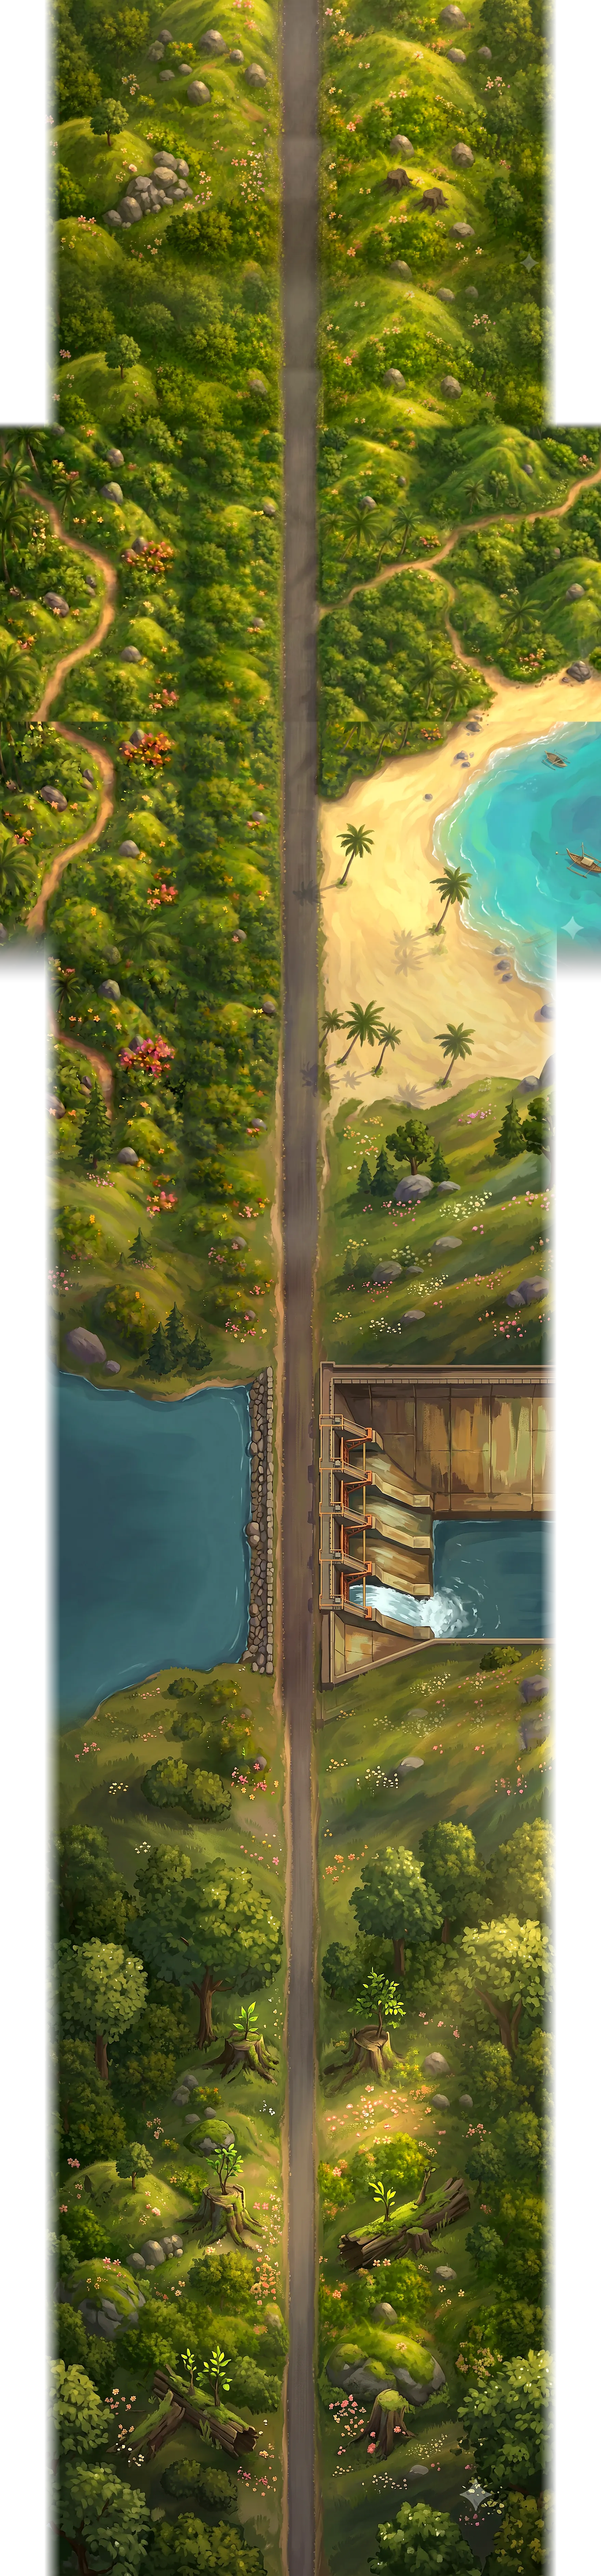
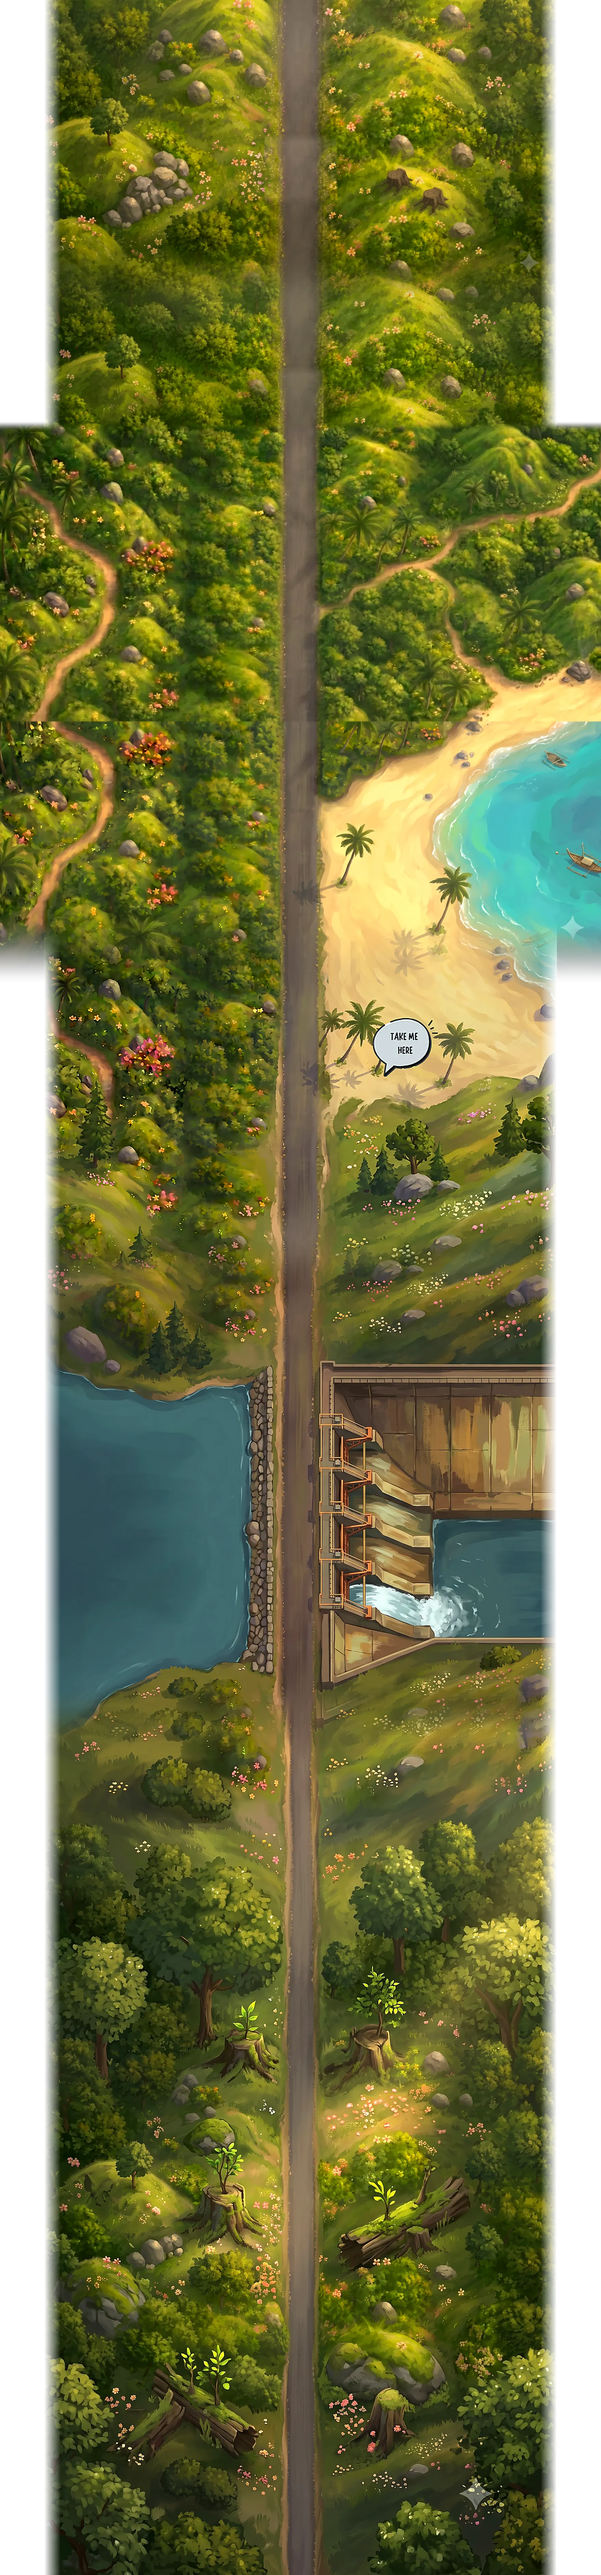
Make the "Take me here" beach callout a real Google Maps link
The speech-bubble callout (drawn into beach-hills.png in Canva) now
opens Google Maps to the Vizag venue when tapped. Since the ribbon is
one continuously-scaled, road-centered image rather than fixed page
content, the tap zone can't just be a plain CSS-positioned <a> - it
has to travel through the same per-row scale and road-centering
transform the art itself goes through.

build-ribbon.py gained a "link" manifest field (native pixel box +
URL) and exports the resolved ribbon-space box into ribbon.json,
computed from each segment's own pre-render native road-centre track
(not the post-render centres, which are already ~0 after the road is
straightened onto the frame midline - a wrong first attempt confirmed
this by producing an obviously-off box before the fix). road.js
renders the link as a plain child of #ribbon, positioned once in
measure() alongside the chunk images, so it pans/scales via the
ribbon's own transform at zero per-frame cost - the one deliberately
interactive island inside an otherwise pointer-events:none scene.

Verified via rebuild: frame width and road drift unchanged (1500px,
0.0px); beach-hills.png's own road detection unaffected by the
callout (131.4px both before and after, on two different Canva
exports with the bubble in different positions).

Claude-Session: https://claude.ai/code/session_01KqyBqW5nBLutqbKkXpUdiu

diff --git a/site/road.js b/site/road.js
@@ -390,6 +390,23 @@
     });
     el.ribbon.appendChild(frag);
     Promise.all(loads).then(function () { el.ribbon.style.visibility = ''; });
+
+    /* Tappable boxes painted into the art (e.g. a "take me here" callout) —
+     * a plain child of #ribbon, like the chunk images, so it pans and scales
+     * with the art via the ribbon's own translate3d at zero runtime cost. Its
+     * own position/size is set in measure() once native rows are scaled, the
+     * same way chunk tops/heights are. left/right in R.links are already
+     * road-relative (see build-ribbon.py) — offset from THIS element's own
+     * centre, not the ribbon's, so it needs its own centred positioning
+     * rather than reusing el.ribbon's left:50%. */
+    el.links = (R.links || []).map(function (l) {
+      var a = document.createElement('a');
+      a.className = 'map-link';
+      a.href = l.url; a.target = '_blank'; a.rel = 'noopener';
+      a.setAttribute('aria-label', 'Open in Google Maps');
+      el.ribbon.appendChild(a);
+      return { a: a, top: l.top, bottom: l.bottom, left: l.left, right: l.right };
+    });
   }
 
   function legCount() {
@@ -493,6 +510,19 @@
       c.top = t; c.hpx = b - t;
       c.img.style.top = t + 'px';
       c.img.style.height = c.hpx + 'px';
+    });
+
+    /* R.links' top/bottom are already ribbon rows (like a chunk's c.y) and
+     * left/right are already offsets from that link's own road centre (see
+     * build-ribbon.py) — both need the same *S.scale as everything else
+     * here, and the road-centre offset needs S.rw/2 added since el.ribbon's
+     * own left edge, not its centre, is (0,0) for an absolutely-positioned
+     * child of it. */
+    (el.links || []).forEach(function (l) {
+      l.a.style.top = Math.round(l.top * S.scale) + 'px';
+      l.a.style.height = Math.round((l.bottom - l.top) * S.scale) + 'px';
+      l.a.style.left = Math.round(S.rw / 2 + l.left * S.scale) + 'px';
+      l.a.style.width = Math.round((l.right - l.left) * S.scale) + 'px';
     });
 
     /* Where each leg ends, in travelled px — the ribbon's own segment joins,

diff --git a/site/v3/road.js b/site/v3/road.js
@@ -390,6 +390,23 @@
     });
     el.ribbon.appendChild(frag);
     Promise.all(loads).then(function () { el.ribbon.style.visibility = ''; });
+
+    /* Tappable boxes painted into the art (e.g. a "take me here" callout) —
+     * a plain child of #ribbon, like the chunk images, so it pans and scales
+     * with the art via the ribbon's own translate3d at zero runtime cost. Its
+     * own position/size is set in measure() once native rows are scaled, the
+     * same way chunk tops/heights are. left/right in R.links are already
+     * road-relative (see build-ribbon.py) — offset from THIS element's own
+     * centre, not the ribbon's, so it needs its own centred positioning
+     * rather than reusing el.ribbon's left:50%. */
+    el.links = (R.links || []).map(function (l) {
+      var a = document.createElement('a');
+      a.className = 'map-link';
+      a.href = l.url; a.target = '_blank'; a.rel = 'noopener';
+      a.setAttribute('aria-label', 'Open in Google Maps');
+      el.ribbon.appendChild(a);
+      return { a: a, top: l.top, bottom: l.bottom, left: l.left, right: l.right };
+    });
   }
 
   function legCount() {
@@ -493,6 +510,19 @@
       c.top = t; c.hpx = b - t;
       c.img.style.top = t + 'px';
       c.img.style.height = c.hpx + 'px';
+    });
+
+    /* R.links' top/bottom are already ribbon rows (like a chunk's c.y) and
+     * left/right are already offsets from that link's own road centre (see
+     * build-ribbon.py) — both need the same *S.scale as everything else
+     * here, and the road-centre offset needs S.rw/2 added since el.ribbon's
+     * own left edge, not its centre, is (0,0) for an absolutely-positioned
+     * child of it. */
+    (el.links || []).forEach(function (l) {
+      l.a.style.top = Math.round(l.top * S.scale) + 'px';
+      l.a.style.height = Math.round((l.bottom - l.top) * S.scale) + 'px';
+      l.a.style.left = Math.round(S.rw / 2 + l.left * S.scale) + 'px';
+      l.a.style.width = Math.round((l.right - l.left) * S.scale) + 'px';
     });
 
     /* Where each leg ends, in travelled px — the ribbon's own segment joins,

diff --git a/site/road.css b/site/road.css
@@ -57,6 +57,19 @@ body {
   display: block; pointer-events: none;
 }
 
+/* A tappable box painted into the art (e.g. a "take me here" callout) — the
+ * one interactive island inside an otherwise look-don't-touch scrolling
+ * scene, so pointer-events is explicitly re-enabled here rather than
+ * inherited (nothing else in .ribbon should ever intercept the scroll drag).
+ * Invisible: the affordance is already painted into the image itself: this
+ * is only the tap target sized and positioned to match it (see measure() in
+ * road.js and build-ribbon.py's link export). */
+.map-link {
+  position: absolute;
+  pointer-events: auto;
+  cursor: pointer;
+}
+
 /* tarmac motion smear, gated on measured speed */
 .streaks {
   position: absolute; top: 0; left: 50%;

diff --git a/site/v3/road.css b/site/v3/road.css
@@ -57,6 +57,19 @@ body {
   display: block; pointer-events: none;
 }
 
+/* A tappable box painted into the art (e.g. a "take me here" callout) — the
+ * one interactive island inside an otherwise look-don't-touch scrolling
+ * scene, so pointer-events is explicitly re-enabled here rather than
+ * inherited (nothing else in .ribbon should ever intercept the scroll drag).
+ * Invisible: the affordance is already painted into the image itself: this
+ * is only the tap target sized and positioned to match it (see measure() in
+ * road.js and build-ribbon.py's link export). */
+.map-link {
+  position: absolute;
+  pointer-events: auto;
+  cursor: pointer;
+}
+
 /* tarmac motion smear, gated on measured speed */
 .streaks {
   position: absolute; top: 0; left: 50%;

diff --git a/tools/build-ribbon.py b/tools/build-ribbon.py
@@ -403,7 +403,7 @@ def main():
     # Where each leg should come to rest. Arrivals divided evenly across the journey
     # land wherever they land — usually on filler, because a painting's subjects are
     # not evenly spaced. A segment names the row worth stopping at instead.
-    stops, petals, joins, cursor, prev = [], [], [], 0, None
+    stops, petals, joins, links, cursor, prev = [], [], [], [], 0, None
     for i, s in enumerate(seq):
         im, centres = graded[key(s)]
         a = np.asarray(im, dtype=np.uint8)
@@ -445,6 +445,29 @@ def main():
         if s.get("petals"):
             pa, pb = s["petals"]          # not a, b — those hold this segment's pixels
             petals.append((seg_start + pa * sc, seg_start + pb * sc))
+        if s.get("link"):
+            # A tappable box painted into the art (e.g. a "take me here" callout),
+            # given in the plate's own native (pre-render) pixel coordinates. x is
+            # road-relative, not frame-relative: render() straightens the road onto
+            # the frame midline row by row, shifting each row left/right by that
+            # row's own detected native road centre before scaling (see render()'s
+            # `want + c2[y]` — c here is `meas`'s PRE-render centres, matching that
+            # same coordinate space). By the stitch loop, c/c2 is already the
+            # POST-render centres — always ~0, the road having already been
+            # straightened — so it can't be used here; native_centres (meas) is the
+            # one still in the box's own coordinate system. y is a straight
+            # native-row -> ribbon-row map, same as stops/petals.
+            native_centres = meas[key(s)][1]
+            lx0, ly0, lx1, ly1 = s["link"]["box"]
+            row_idx = max(0, min(len(native_centres) - 1, int((ly0 + ly1) / 2)))
+            lcx = float(native_centres[row_idx])
+            links.append({
+                "url": s["link"]["url"],
+                "top": seg_start + ly0 * sc,
+                "bottom": seg_start + ly1 * sc,
+                "left": (lx0 - lcx) * sc,
+                "right": (lx1 - lcx) * sc,
+            })
         v = min(seg_over, len(a) // 2, len(prev[0]) // 2) if prev is not None else 0
         # "trim": at v>0, overlap's default is to CROSSBLEND those v rows - which
         # is itself a second, separate blend, on top of (and easy to mistake for)
@@ -646,6 +669,21 @@ def main():
         "stops": [round(float(v), 1) for v in sorted(stops)],
         # ribbon row ranges where drifting petals belong
         "petalZones": [[round(float(a), 1), round(float(b), 1)] for a, b in petals],
+        # tappable boxes painted into the art (e.g. a "take me here" callout) —
+        # top/bottom are ribbon rows, left/right are px offsets from that box's
+        # own road centre, both already road.js's own coordinate system for a
+        # scaled row (see roadCentre above and trackAt() in road.js), so the
+        # engine only has to add its own pan/scale, never re-derive geometry.
+        "links": [
+            {
+                "url": l["url"],
+                "top": round(float(l["top"]), 1),
+                "bottom": round(float(l["bottom"]), 1),
+                "left": round(float(l["left"]), 1),
+                "right": round(float(l["right"]), 1),
+            }
+            for l in links
+        ],
         # -1..+1 per row: which way to slide the window when zoom crops the sides
         "bias": {
             "step": STEP,
